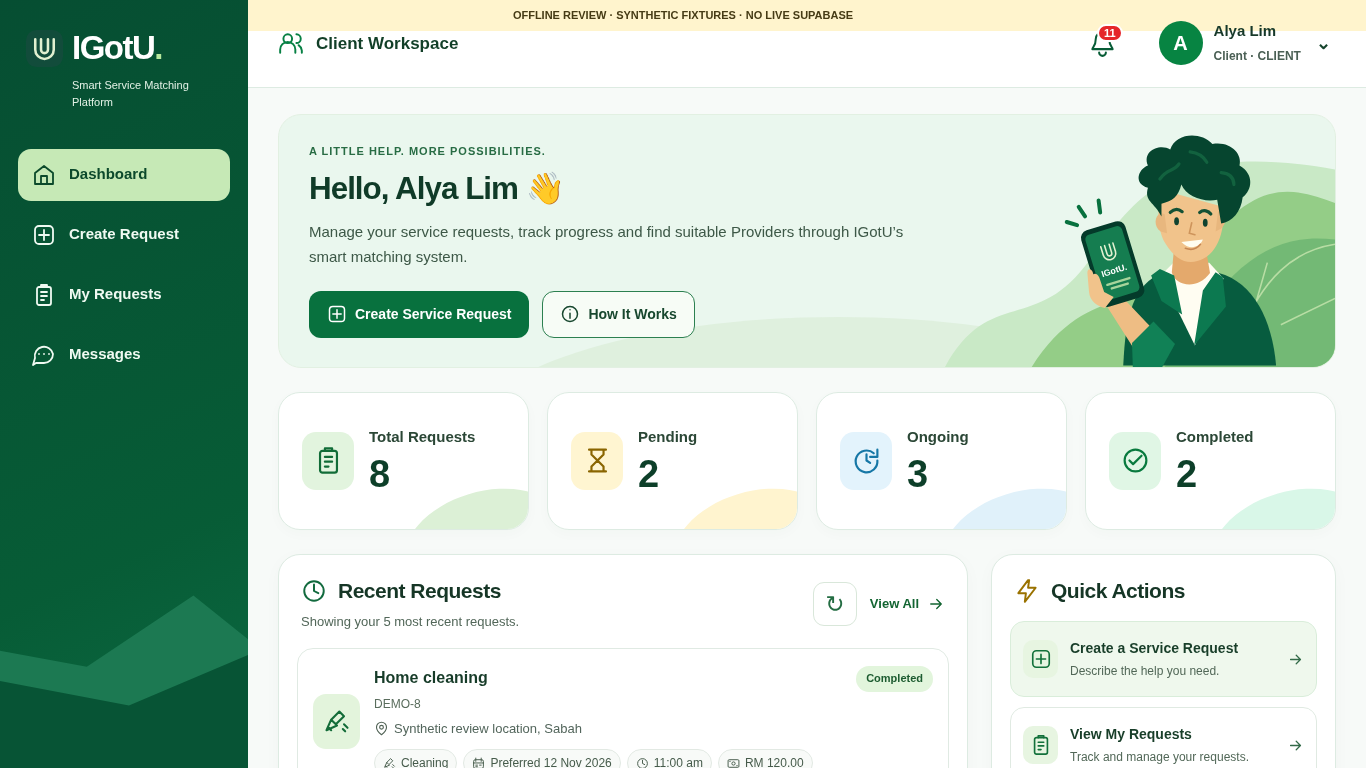
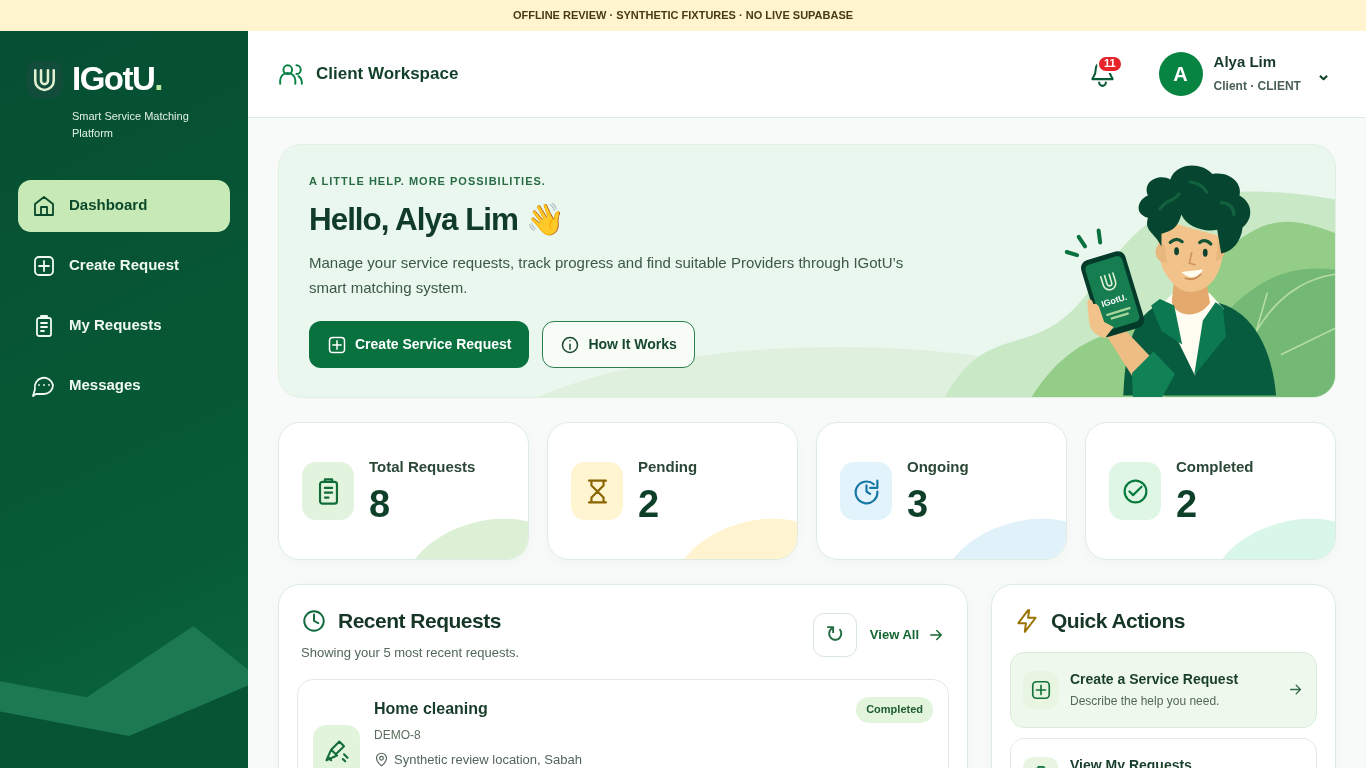
Keep offline labels visible in viewport review captures

diff --git a/docs/client-dashboard/refinement/README.md b/docs/client-dashboard/refinement/README.md
@@ -19,7 +19,7 @@ The official logo, illustration, hero, How It Works content, finite animations, 
 
 ## Actual before/after captures
 
-These are real Chromium captures with synthetic fixtures. Offline labels are inserted only by the screenshot test; application HTML/JS contains no such banner. Modal captures put the test-only label inside the captured dialog and use the viewport so offscreen fixed elements do not distort a full-page capture.
+These are real Chromium captures with synthetic fixtures. Offline labels are inserted only by the screenshot test; application HTML/JS contains no such banner. Modal captures put the test-only label inside the captured dialog and use the viewport so offscreen fixed elements do not distort a full-page capture. Account-menu and initial-viewport captures keep that label in normal document flow and scroll to the top, so it remains visible rather than being obscured behind the application.
 
 | View | Approved before | Refined after |
 | --- | --- | --- |
